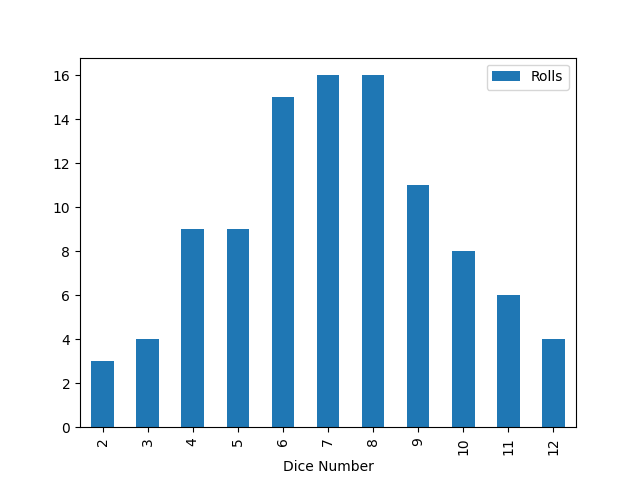
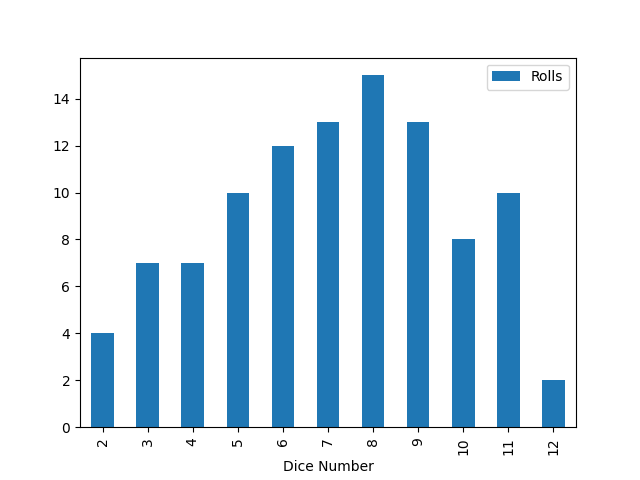
updated dice mode

diff --git a/src/dice_mode.py b/src/dice_mode.py
@@ -42,6 +42,7 @@ def create_card_stack():
 def run(number_of_rolls):
     """Run the rolls for the simulation."""
     rolls = {}
+    card_stack = []
     count = 0
     while True:
 
@@ -50,7 +51,9 @@ def run(number_of_rolls):
 
         for i in range(0, rolls_in_game):
             # create a new card stack for each new game
-            card_stack = create_card_stack()
+            
+            if not card_stack:
+                card_stack = create_card_stack()
 
             while card_stack:
                 # draw a card from the top of the card stack
